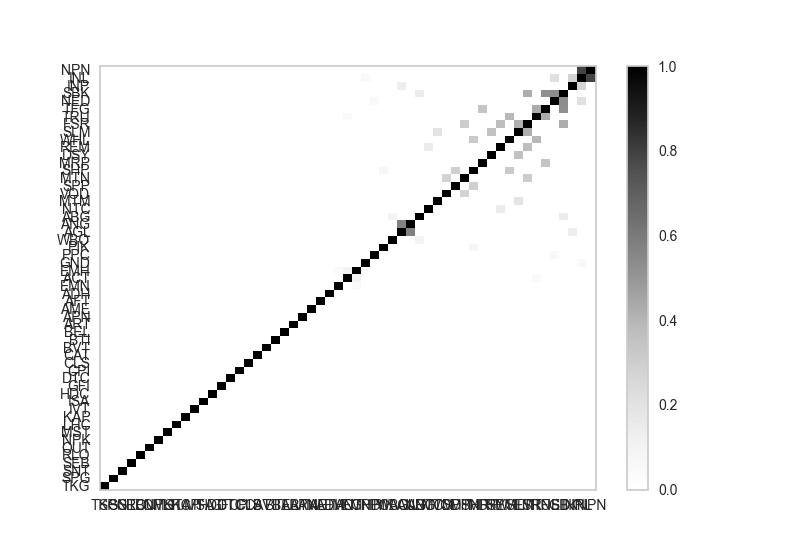
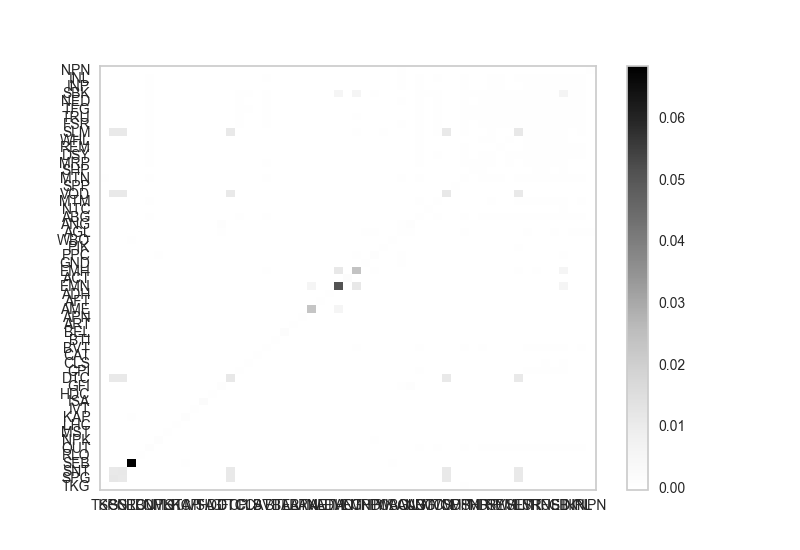
Perfomance metric update

diff --git a/src/optimisation/hmv/seriation.py b/src/optimisation/hmv/seriation.py
@@ -1,6 +1,7 @@
 from RiskLabAI.optimization import *
 
 from src.optimisation.hmv.clustering import clustering_matrix, dependence_matrix
+from src.data.returns import split_returns
 from src.dependence.dependence import PROJECT_ROOT
 
 def quasi_diagonalisation():
@@ -9,15 +10,16 @@ def quasi_diagonalisation():
     """
 
     link = clustering_matrix()
-    
+
     dep_matrix = dependence_matrix(1)
 
-    sortIx = quasi_diagonal(link)
-    sortIx_index = sortIx.copy()
-    sortIx = dep_matrix.index[sortIx].tolist()
-    cov_matrix_reordered = dep_matrix.loc[sortIx, sortIx]  # reorder
+    train_returns, _ = split_returns()
+    cov_matrix = train_returns.cov()
+
+    sorted_items_idx = quasi_diagonal(link)
+    sorted_items_names = dep_matrix.index[sorted_items_idx].tolist()
+
+    cov_matrix_reordered = cov_matrix.loc[sorted_items_names, sorted_items_names]  # reorder
     plot_corr_matrix(PROJECT_ROOT / "data" / "output" / "results"/ "quasi_diagonalisation.png", cov_matrix_reordered, labels=cov_matrix_reordered.columns)
 
-    sorted_items_names = dep_matrix.index[sortIx_index].tolist()
-    
     return sorted_items_names

diff --git a/src/optimisation/hrp/hrp_weights.py b/src/optimisation/hrp/hrp_weights.py
@@ -1,10 +1,13 @@
 from RiskLabAI.optimization.hrp import hrp
 import pandas as pd
-import numpy as np
 
 def hrp_weights(returns):
+    
+    tickers = returns.columns
 
     cov = returns.cov().to_numpy()
     corr = returns.corr().to_numpy()
+
+    w = hrp(cov=cov, corr=corr, labels=tickers)
     
-    return hrp(cov=cov, corr=corr)
+    return pd.Series(w, index=tickers)

diff --git a/src/optimisation/eqw/eq_weights.py b/src/optimisation/eqw/eq_weights.py
@@ -1,0 +1,10 @@
+import pandas as pd
+import numpy as np
+
+def equal_weights(returns):
+    n_assets = returns.shape[1]
+
+    return pd.Series(
+        np.repeat(1 / n_assets, n_assets),
+        index=returns.columns
+    )

diff --git a/src/optimisation/hmv/clustering.py b/src/optimisation/hmv/clustering.py
@@ -66,4 +66,4 @@ def plot_dendrogram(link=None, labels=None, save=True):
     out_path = PROJECT_ROOT / "data" / "output" / "results" / "dendrogram.png"
     plt.savefig(out_path, dpi=150)
 
-    return fig
+    # return fig

diff --git a/src/optimisation/hmv/recursive_bisection.py b/src/optimisation/hmv/recursive_bisection.py
@@ -175,4 +175,4 @@ def plot_weights(weights, opt_method='HRP', corr_type='Kendall tau'):
 
     print(f"Saved chart to: {filepath}")
 
-    plt.show()
+    # plt.show()
